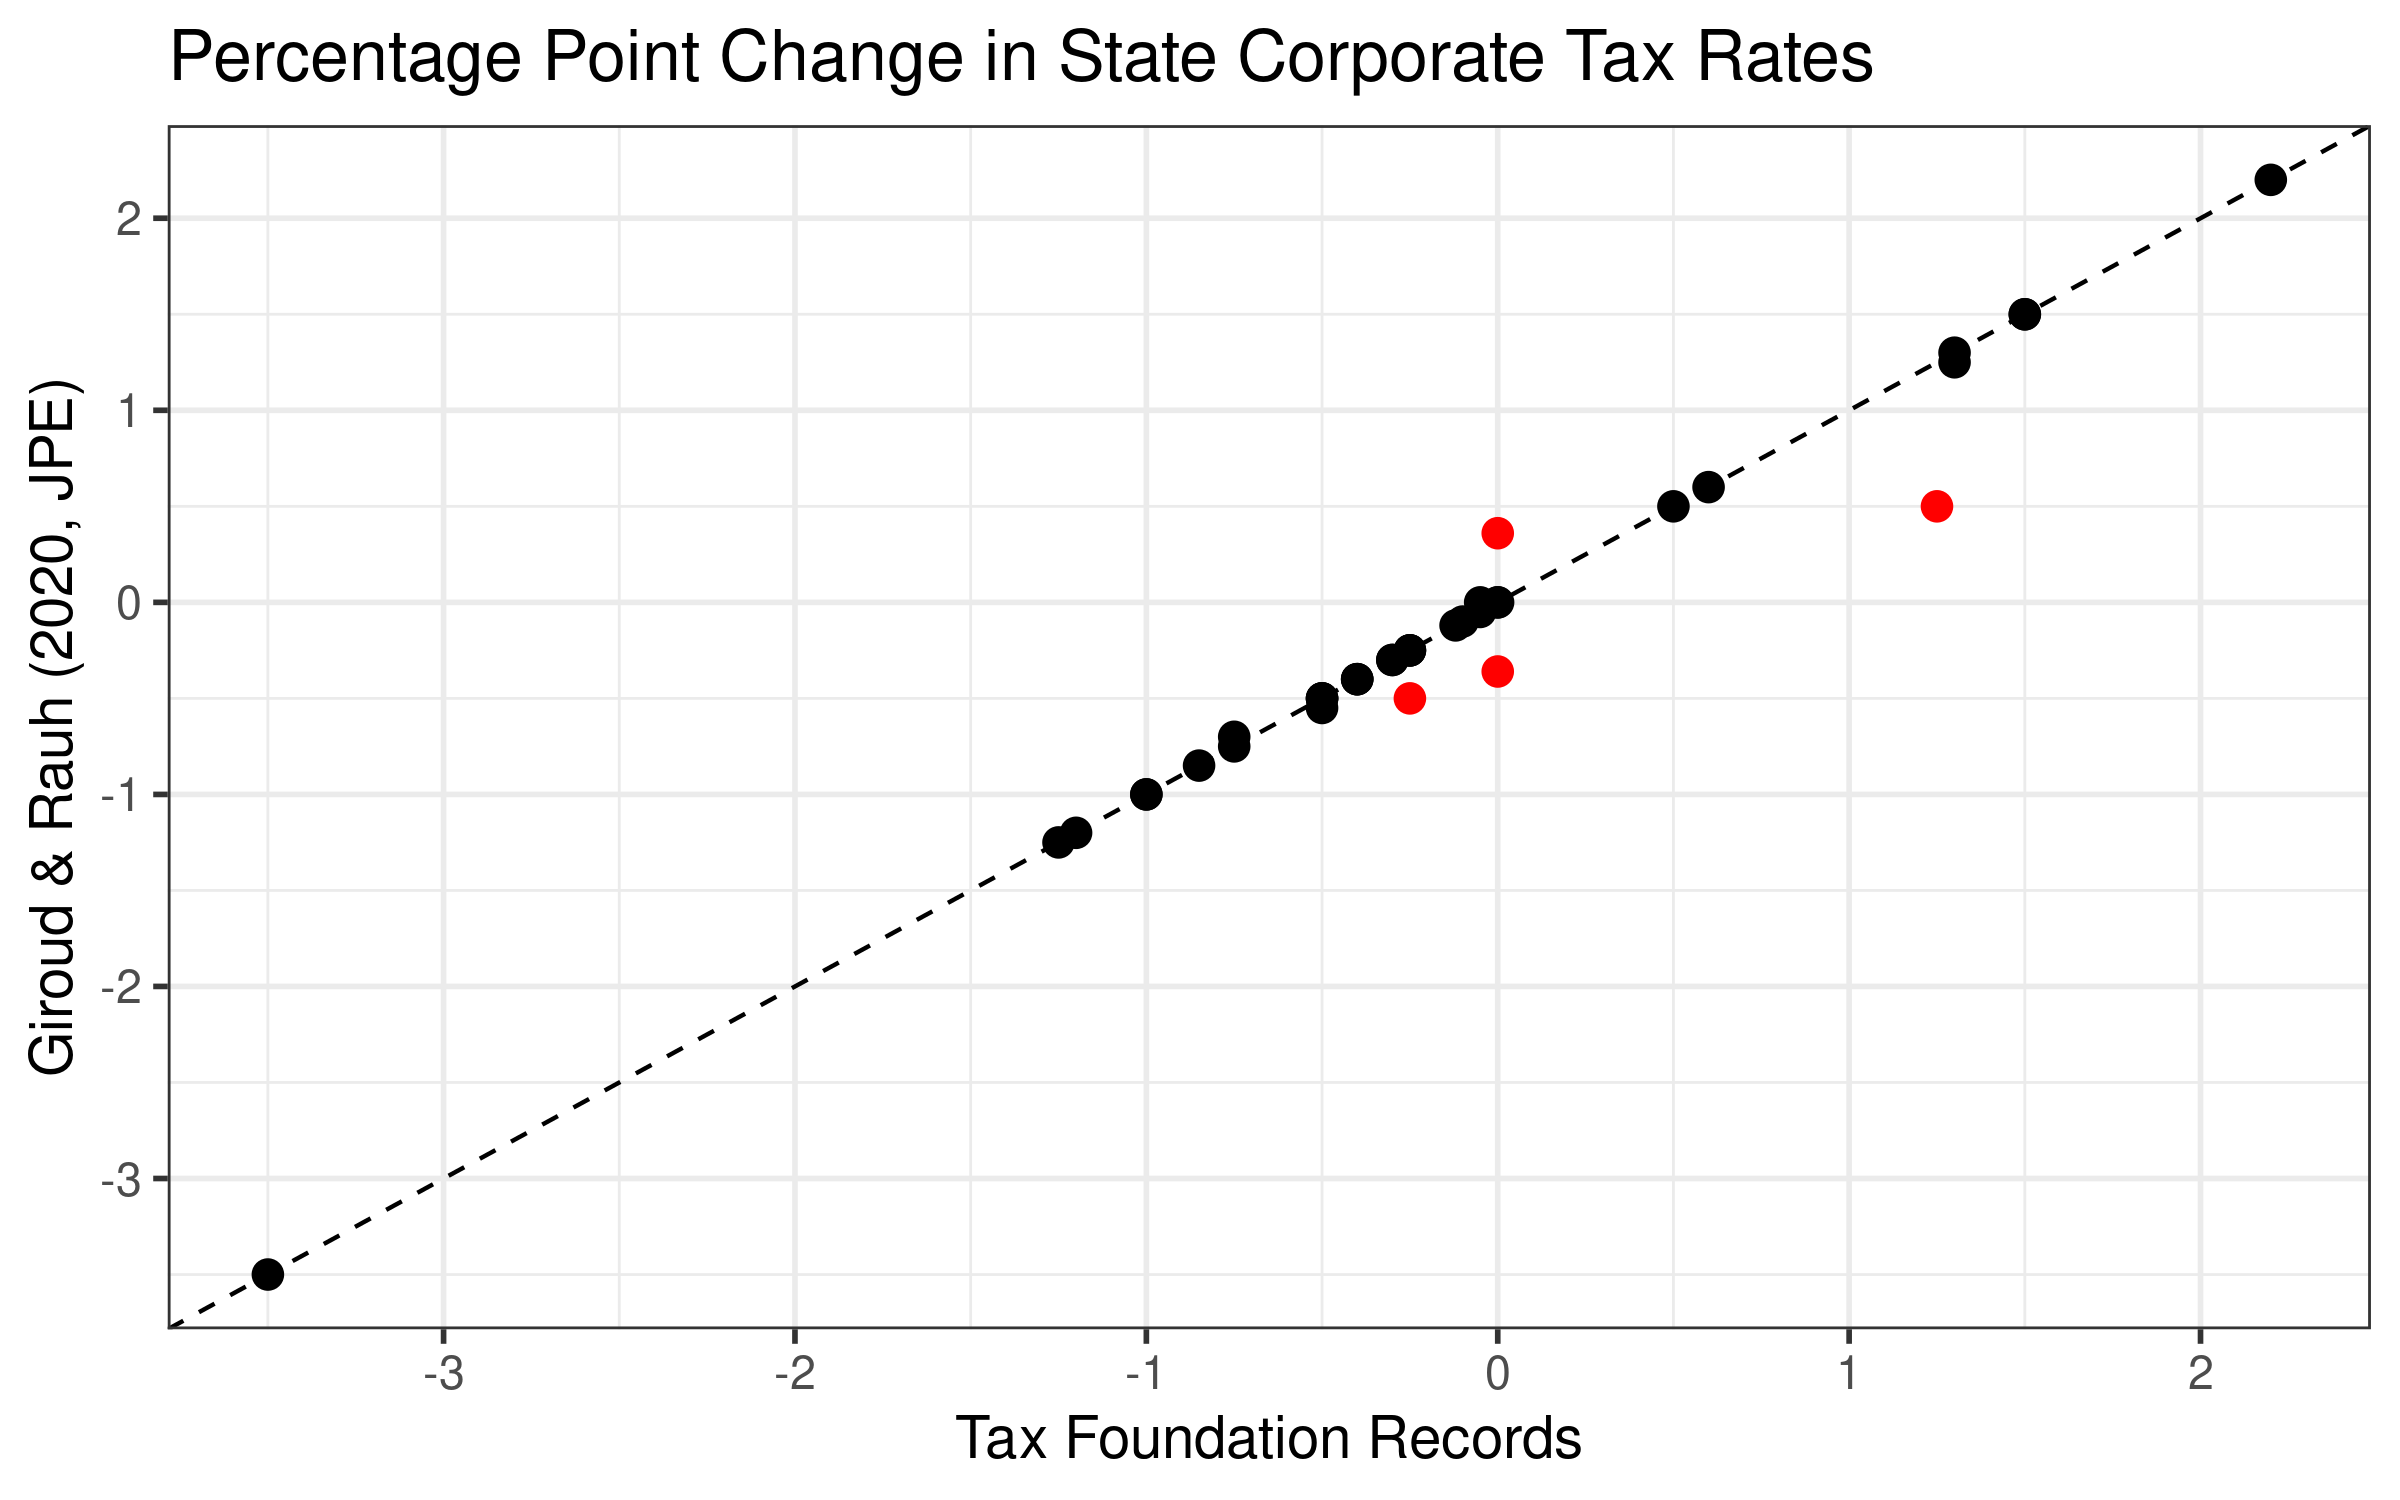
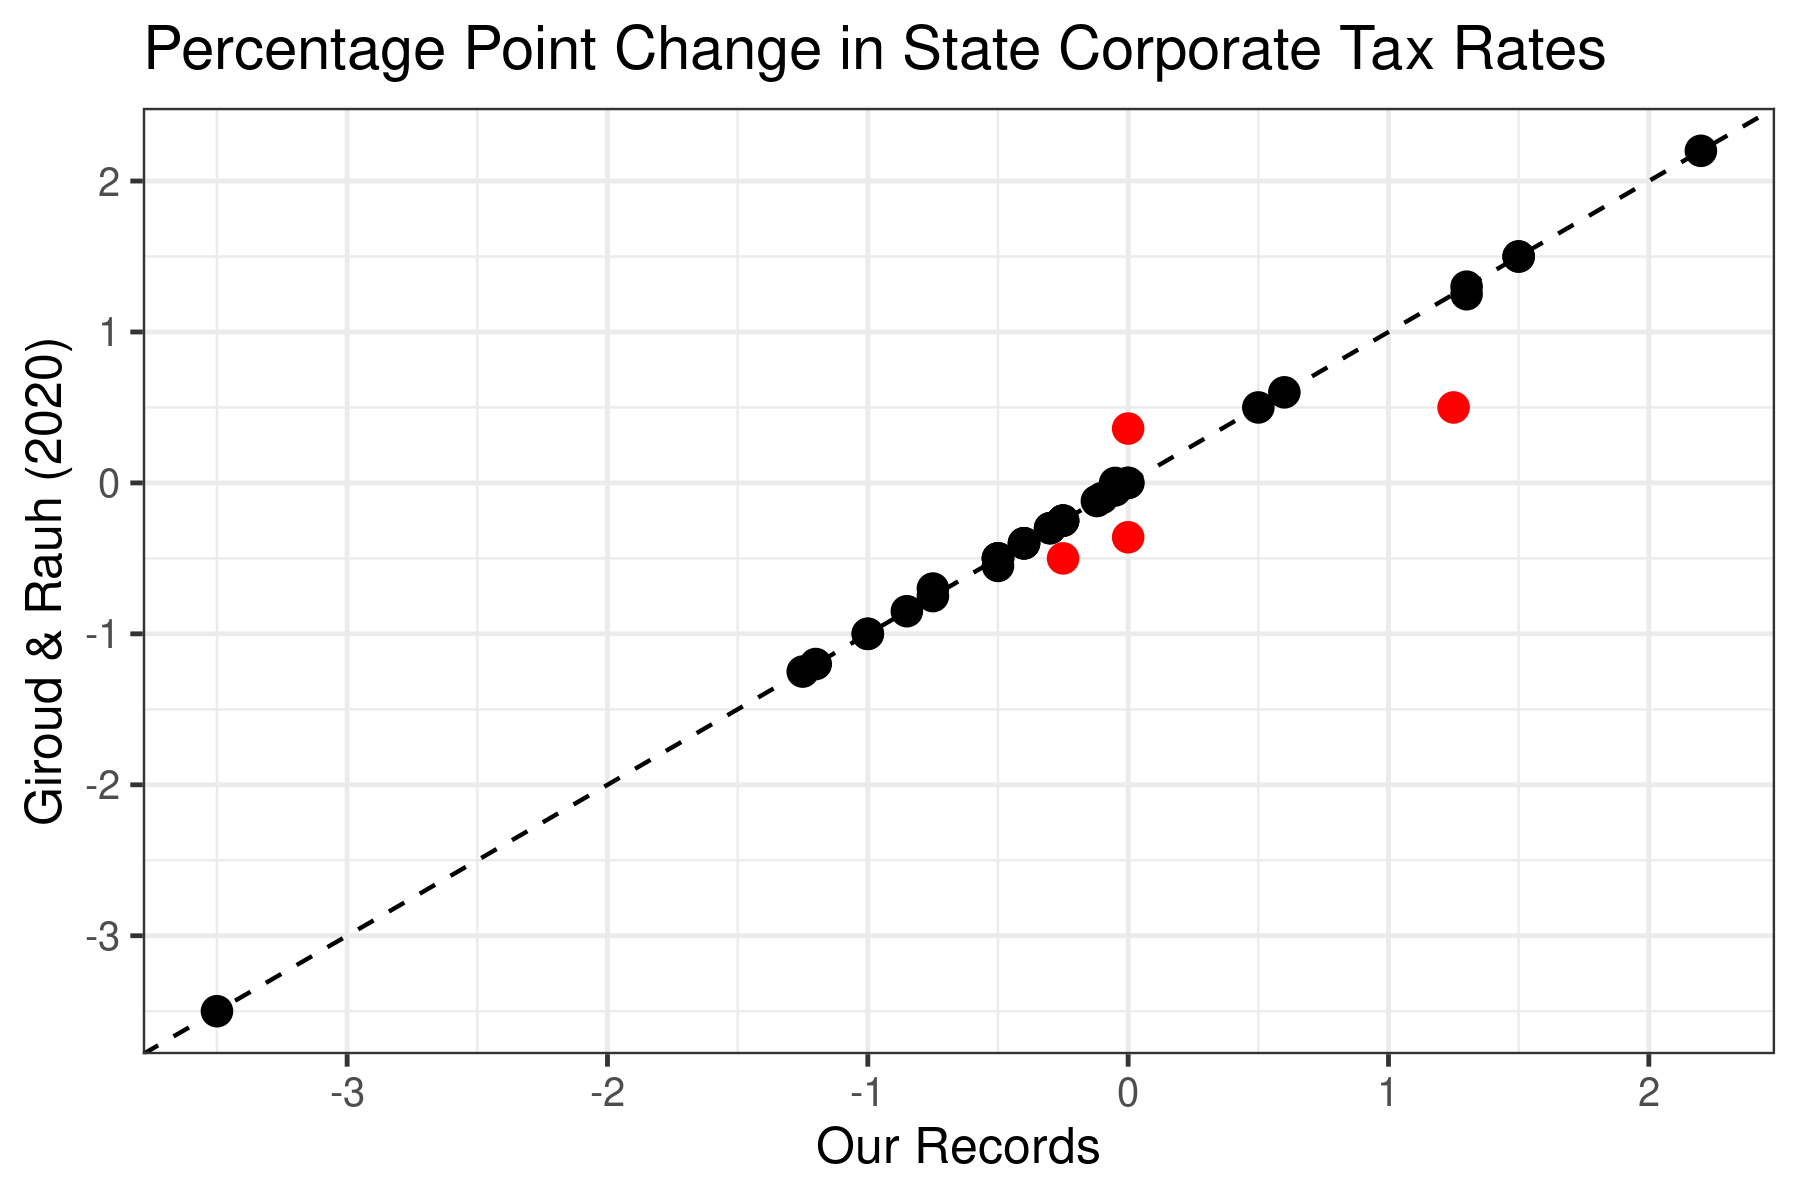
updated state corp tax rate

diff --git a/content/datasets/CorpTax/index.md b/content/datasets/CorpTax/index.md
@@ -1,10 +1,10 @@
 ---
-title: "State Corporate Tax"
+title: "State Corporate Tax Rate"
 
 publishDate: "2019-01-02T00:00:00Z"
 
 # Summary. An optional shortened abstract.
-summary: 2000-2015 top corporate tax rates by state. Extends to more recent years and improves upon data by Giroud & Rauh (2020).
+summary: 2000-2020 top corporate tax rates by state. Extends the data set of Giroud & Rauh (2020), which ends in 2012.
 
 image:
   placement: 2
@@ -27,4 +27,4 @@ url_video: ''
 
 ---
 
-2000-2015 top corporate tax rates by state. Extends and improves upon data by Giroud & Rauh (2020).
+2000-2020 top corporate tax rates by state. Extends the data set of Giroud & Rauh (2020), which ends in 2012.
